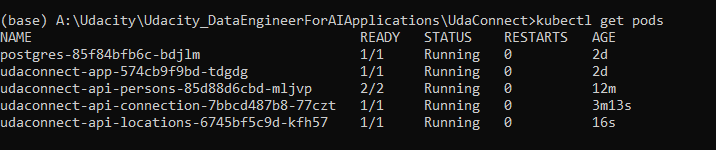
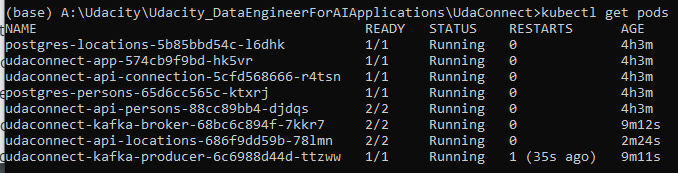
Kafka done

diff --git a/UdaConnect/modules/api_locations/kafka/consumer.py b/UdaConnect/modules/api_locations/kafka/consumer.py
@@ -3,6 +3,7 @@ import json
 
 from kafka import KafkaConsumer
 from app.udaconnect.services import LocationService
+from app.udaconnect.model_location import Location
 from wsgi import app
 
 logging.basicConfig(level=logging.DEBUG)
@@ -10,24 +11,15 @@ logger = logging.getLogger("udaconnect-api-location-kafka")
 
 
 class Consumer:
-  To consume latest messages and auto-commit offsets
+  #To consume latest messages and auto-commit offsets
   consumer = KafkaConsumer('udaconnect-location',
-                           group_id='udaconnect',
-                           bootstrap_servers=['udaconnect-kafka-broker:5008'])
-
-  #consumer = KafkaConsumer(bootstrap_servers=['udaconnect-kafka-broker:5008'])
-  
+                            value_deserializer=lambda m: json.loads(m.decode('utf-8')),
+                            bootstrap_servers=['udaconnect-kafka-broker:5008'])
 
   for message in consumer:
-      # message value and key are raw bytes -- decode if necessary!
-      # e.g., for unicode: `message.value.decode('utf-8')`
-      logger.info("%s:%d:%d: key=%s value=%s" % (message.topic, message.partition,
-                                            message.offset, message.key,
-                                            message.value))
-      print ("%s:%d:%d: key=%s value=%s" % (message.topic, message.partition,
-                                            message.offset, message.key,
-                                            message.value))
-      payload = json.loads(message.decode('ascii'))
+      payload = message.value
+      logger.info(f"Message: {message.topic}, {payload}")
+
       with app.app_context():
         LocationService.create(payload)
 

diff --git a/UdaConnect/modules/kafka_producer/producer.py b/UdaConnect/modules/kafka_producer/producer.py
@@ -11,7 +11,7 @@ class Server:
     def __init__(self):
         self.producer = KafkaProducer(bootstrap_servers=['udaconnect-kafka-broker:5008'],
                       api_version=(0,11,5),
-                      value_serializer=lambda x: json.dumps(x).encode('utf-8'))
+                      value_serializer=lambda m: json.dumps(m).encode('utf-8'))
 
     def send_location(self, person_id, creation_time):
 
@@ -19,7 +19,7 @@ class Server:
                     "latitude": "-122.2908829999999938",
                     "longitude": "37.5536299999999983",
                     "creation_time": creation_time }
-        self.producer.send('udaconnect-location', json.dumps(message))
+        self.producer.send('udaconnect-location', message)
         logger.info(f'KafkaProducer message sent: {message}')
         self.producer.flush()
 

diff --git a/UdaConnect/modules/api_locations/restful/app/udaconnect/services.py b/UdaConnect/modules/api_locations/restful/app/udaconnect/services.py
@@ -8,7 +8,7 @@ from app.udaconnect.schema_location import LocationSchema
 from geoalchemy2.functions import ST_AsText, ST_Point
 
 
-logging.basicConfig(level=logging.WARNING)
+logging.basicConfig(level=logging.DEBUG)
 logger = logging.getLogger("udaconnect-lcations-api")
 
 
